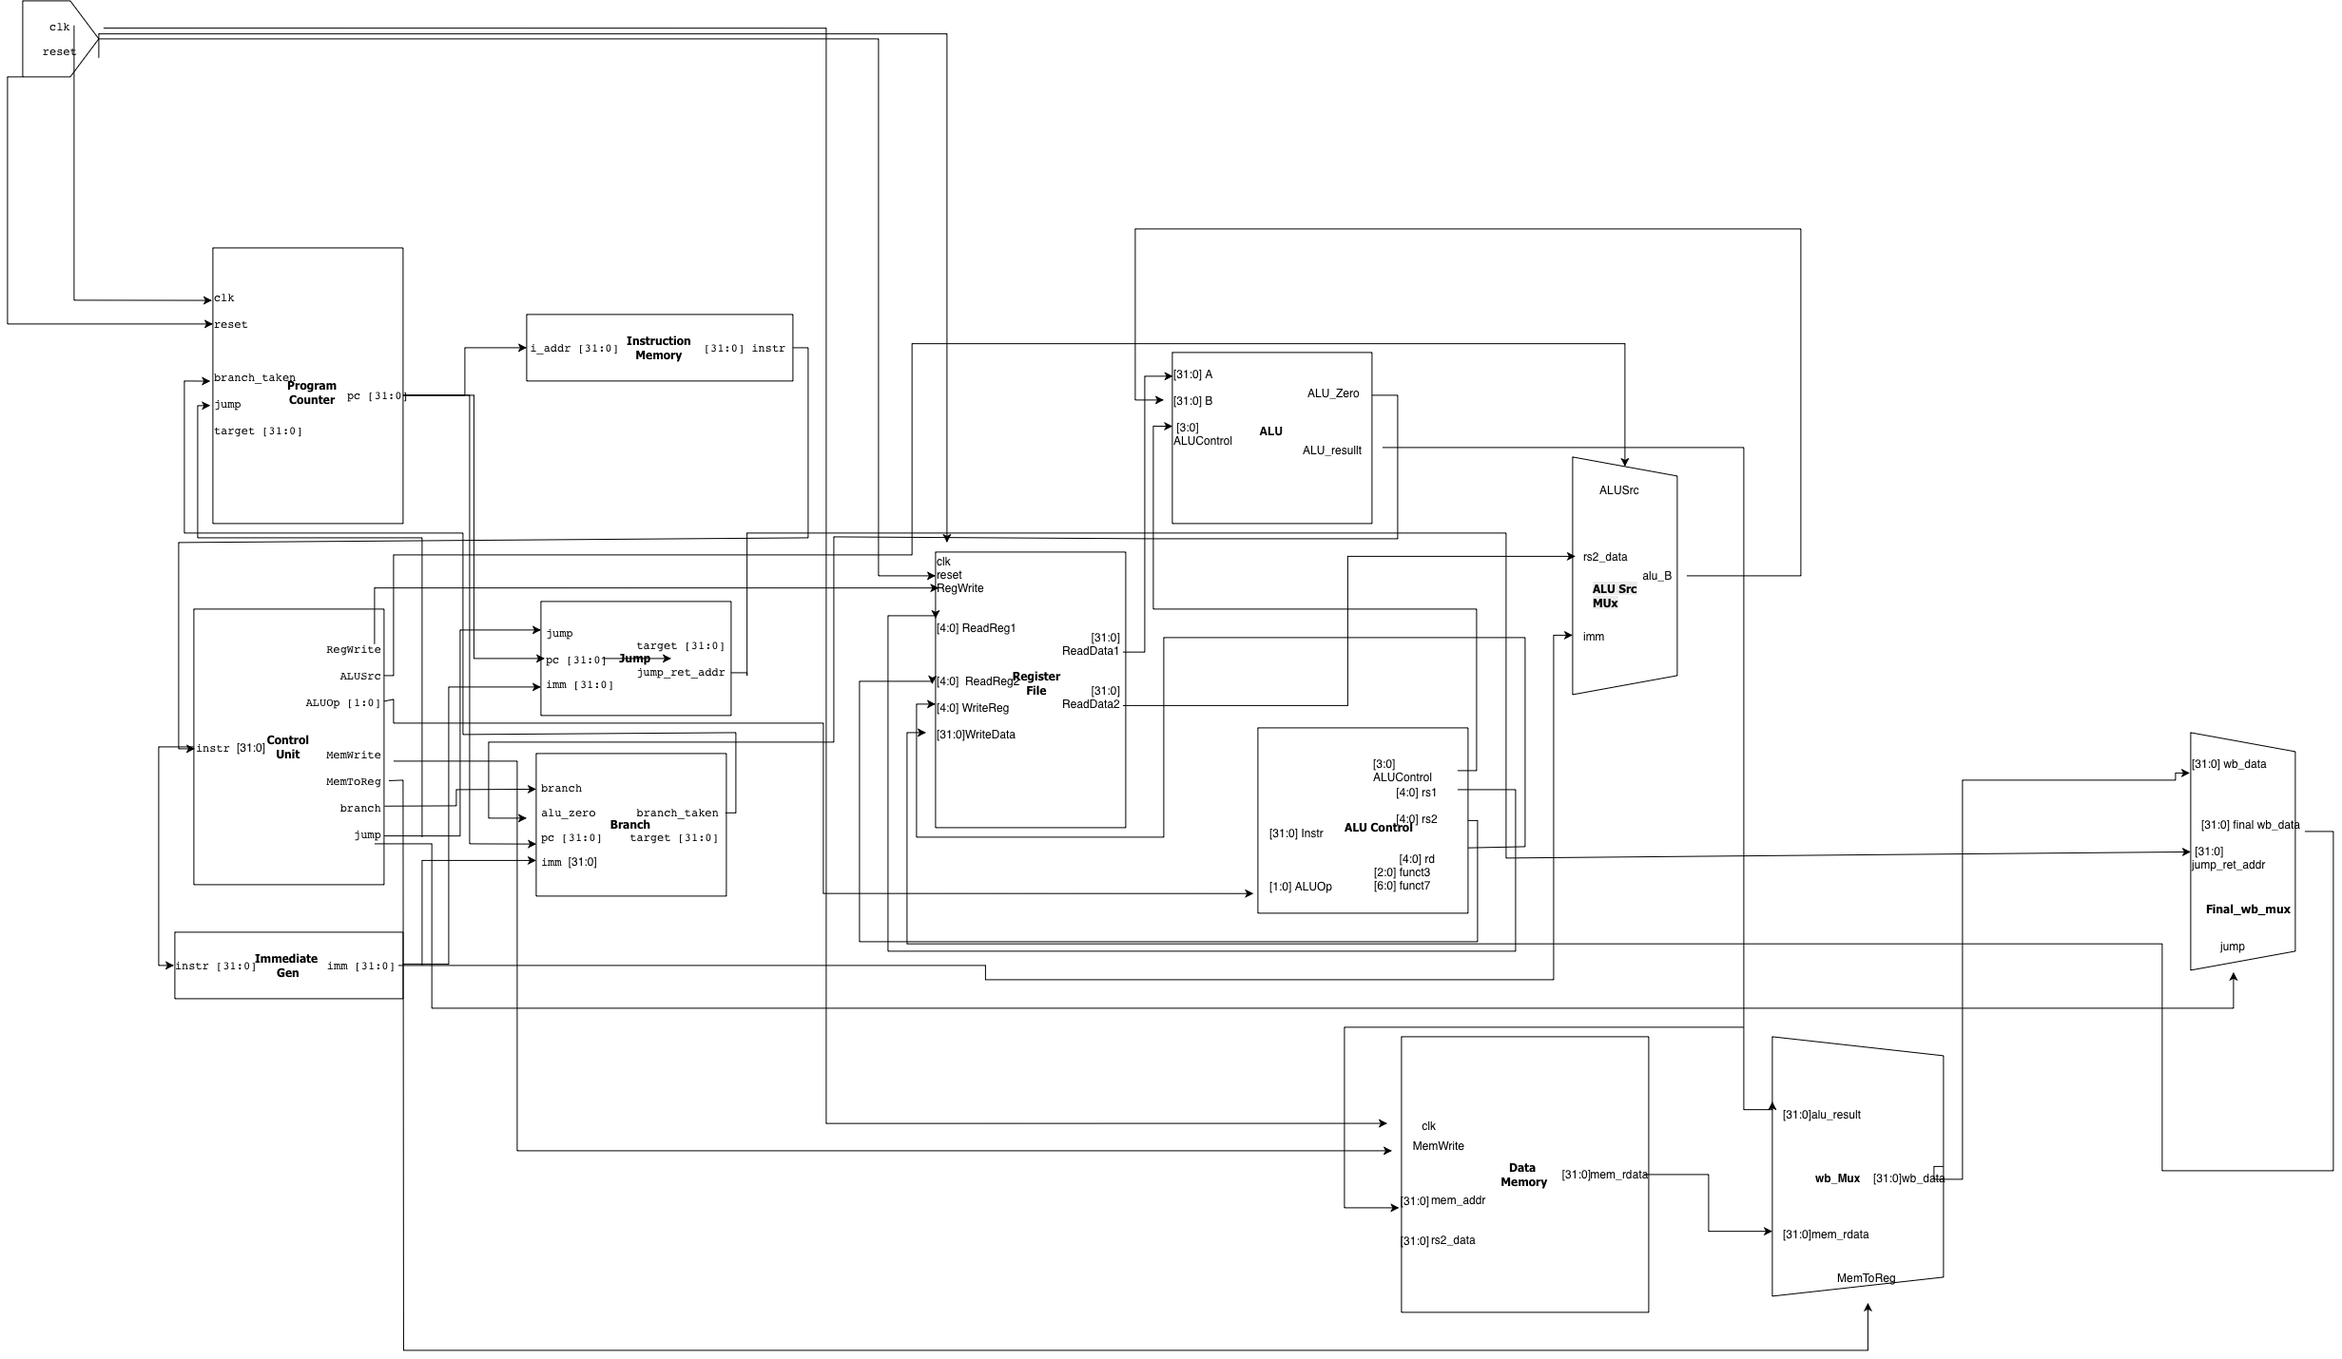
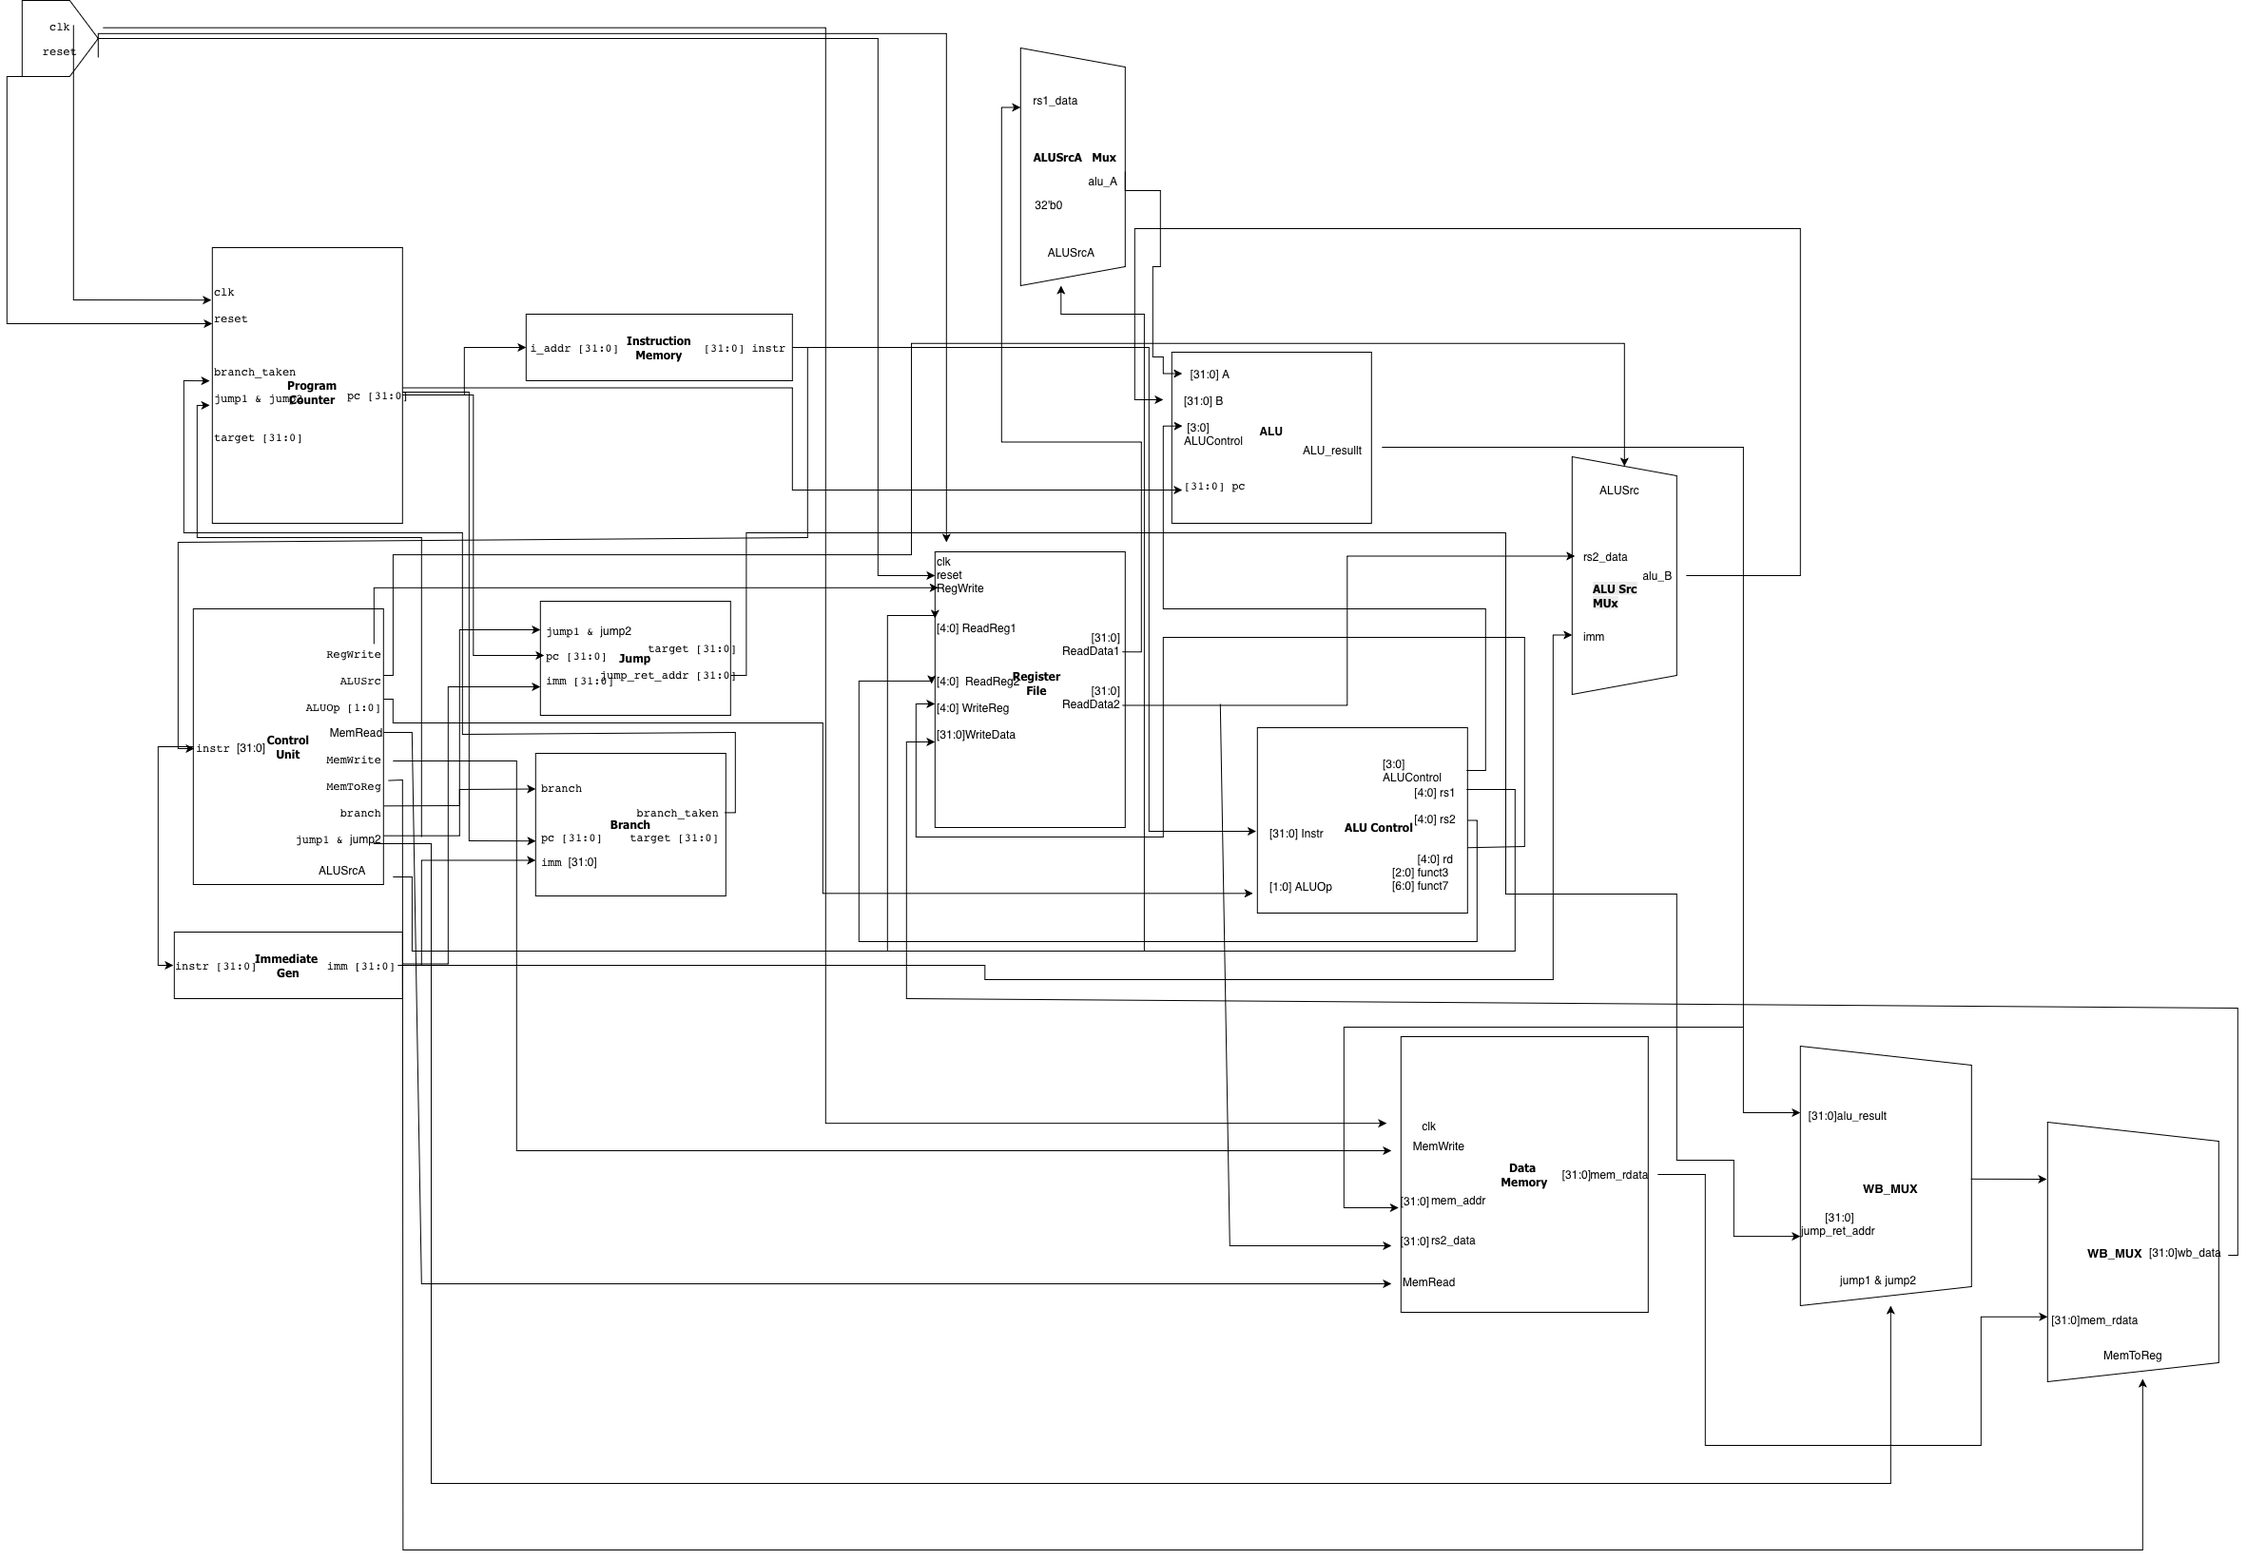
Updated README and other documentation

diff --git a/documentation/RV32I_Processor_Control_Signals.md b/documentation/RV32I_Processor_Control_Signals.md
@@ -4,45 +4,54 @@ This document summarizes the major control signals used across the RV32I single-
 
 | Signal | Width | Module(s) | Description |
 |---|---|---|---|
-| clk | 1 | Top | Global clock signal used by all sequential modules. |
-| reset | 1 | Top | Resets the processor state and Program Counter. |
-| pc | 32 | program_counter | Current Program Counter value. |
-| instr | 32 | inst_mem | 32-bit instruction fetched from instruction memory. |
-| target | 32 | branch, jump | Computed branch/jump target address. |
-| branch | 1 | control_unit | Indicates a branch instruction. |
-| branch_taken | 1 | branch | Indicates whether the branch condition is satisfied. |
-| jump | 1 | control_unit, jump | Indicates a JAL instruction. |
-| jump_ret_addr | 32 | jump | Return address (PC + 4) written to rd during JAL. |
-| rs1 | 5 | alu_control | Source register 1 index (instr[19:15]). |
-| rs2 | 5 | alu_control | Source register 2 index (instr[24:20]). |
-| rd | 5 | alu_control | Destination register index (instr[11:7]). |
-| funct3 | 3 | alu_control | Function field used for ALU operation decoding. |
-| funct7 | 7 | alu_control | Additional function field to distinguish operations. |
-| imm | 32 | immediate_gen | Sign-extended immediate value. |
+| clk | 1 | cpu_top | Global clock used by the register file, PC, and memory. |
+| reset | 1 | cpu_top | Resets the processor state and program counter. |
+| pc | 32 | program_counter, cpu_top | Current program counter value. |
+| instr | 32 | inst_mem, cpu_top | Current 32-bit instruction fetched from instruction memory. |
+| target | 32 | cpu_top | Final PC target selected between jump and branch target logic. |
+| branch | 1 | control_unit, branch_logic | Asserted for branch instructions. |
+| branch_taken | 1 | branch_logic | Indicates whether the branch condition evaluated true. |
+| branch_target | 32 | branch_logic, cpu_top | Address produced by a taken branch: `pc + imm`. |
+| jump1 | 1 | control_unit, jump_logic, writeback_mux | Asserted for JAL instructions. |
+| jump2 | 1 | control_unit, jump_logic, writeback_mux | Asserted for JALR instructions. |
+| jump | 1 | cpu_top | Derived OR of `jump1` and `jump2`; higher-priority PC control path. |
+| jump_target | 32 | jump_logic, cpu_top | Target computed for JAL/JALR. |
+| jump_ret_addr | 32 | jump_logic, writeback_mux | Return address used for the link register (PC + 4). |
+| rs1 | 5 | alu_control | Source register 1 index (`instr[19:15]`). |
+| rs2 | 5 | alu_control | Source register 2 index (`instr[24:20]`). |
+| rd | 5 | alu_control | Destination register index (`instr[11:7]`). |
+| funct3 | 3 | alu_control, branch_logic, data_memory | Function field used for ALU operation decoding and memory/branch control. |
+| funct7 | 7 | alu_control | Additional function field used to distinguish `SUB`, `SRA`, etc. |
+| imm | 32 | imm_gen, cpu_top | Immediate value generated for I/S/B/U/J formats. |
 | RegWrite | 1 | control_unit | Enables register file writeback. |
-| ALUSrc | 1 | control_unit | Selects second ALU operand (register/immediate). |
-| ALUOp | 2 | control_unit | High-level ALU operation code. |
-| ALUControl | 4 | alu_control | Exact ALU operation select (ADD, SUB, AND, OR, XOR, SLL, SRL, SRA, SLT, SLTU, etc.). |
-| alu_B | 32 | alu_src_mux | Second ALU operand after ALUSrc multiplexing. |
-| A | 32 | alu_module | First ALU operand. |
-| B | 32 | alu_module | Second ALU operand. |
-| alu_result | 32 | alu_module | Result generated by the ALU. |
-| alu_zero | 1 | alu_module | Zero flag used for branch evaluation. |
-| MemRead | 1 | control_unit | Enables Data Memory read. |
-| MemWrite | 1 | control_unit | Enables Data Memory write. |
-| mem_addr | 32 | data_memory | Address supplied to Data Memory. |
-| wb_data | 32 | data_memory | It is the final 32-bit value that is written into the Register File. |
-| mem_rdata | 32 | data_memory | Data read from Data Memory. |
-| MemToReg | 1 | writeback_mux | Selects writeback source (0 = ALU result, 1 = memory data). |
+| ALUSrc | 1 | control_unit, alu_src_mux | Selects ALU operand `B` between `rs2_data` and `imm`. |
+| ALUSrcA | 1 | control_unit, cpu_top | Selects ALU operand `A` between `rs1_data` and `pc` for AUIPC-style behavior. |
+| ALUOp | 2 | control_unit, alu_control | High-level ALU opcode: `00` add/auipc, `01` subtract/branch compare, `10` decode by funct3/funct7, `11` JAL fallback. |
+| ALUControl | 4 | alu_control, alu_module | Exact ALU operation select: `ADD`, `SUB`, `AND`, `OR`, `XOR`, `SLL`, `SRL`, `SRA`, `SLT`, `SLTU`, `AUIPC_OP`. |
+| rs1_data | 32 | reg_file, cpu_top | Data read from source register 1. |
+| rs2_data | 32 | reg_file, alu_src_mux, data_memory | Data read from source register 2; also used for stores and ALU input B. |
+| alu_A | 32 | cpu_top | Final ALU operand A after muxing. |
+| alu_B | 32 | alu_src_mux, cpu_top | Final ALU operand B after muxing. |
+| A | 32 | alu_module | First ALU operand input. |
+| B | 32 | alu_module | Second ALU operand input. |
+| ALU_result | 32 | alu_module, cpu_top | Result generated by the ALU. |
+| MemRead | 1 | control_unit, data_memory | Enables data memory read. |
+| MemWrite | 1 | control_unit, data_memory | Enables data memory write. |
+| mem_addr | 32 | data_memory, cpu_top | Address supplied to data memory. |
+| mem_rdata | 32 | data_memory, writeback_mux | Data read from data memory. |
+| MemToReg | 1 | control_unit, writeback_mux | Selects writeback source: `0` = ALU result, `1` = memory data, and JAL/JALR override to `jump_ret_addr`. |
+| wb_data | 32 | writeback_mux, reg_file | Final value written back into the register file. |
 | ReadReg1 | 5 | reg_file | Address of source register 1. |
-| ReadReg2 | 5 | reg_file | Address of source register 2 (rs2_data). |
+| ReadReg2 | 5 | reg_file | Address of source register 2. |
 | WriteReg | 5 | reg_file | Destination register address. |
-| ReadData1 | 32 | reg_file | Data read from source register 1. |
-| ReadData2 | 32 | reg_file | Data read from source register 2. |
-| WriteData | 32 | reg_file | Data written back to the register file. |
-| stall | 1 | program_counter | Freezes the Program Counter when asserted. |
+| ReadData1 | 32 | reg_file | Data read from register file operand 1. |
+| ReadData2 | 32 | reg_file | Data read from register file operand 2. |
+| WriteData | 32 | reg_file | Data sent to the destination register. |
+| stall | 1 | program_counter | PC freeze input; currently driven as `0` in the design. |
 | i_addr | 32 | inst_mem | Instruction memory address input. |
 | o_inst | 32 | inst_mem | Instruction memory output. |
-| opcode | 7 | control_unit, alu_control | Opcode field (instr[6:0]) used by the Control Unit and ALU Control to determine the instruction type. |
+| opcode | 7 | control_unit, alu_control, imm_gen | Opcode field (`instr[6:0]`) used to select instruction type and control behavior. |
+
+> The current RTL uses the signal names above as implemented in the source modules. Some older docs refer to a single `target` signal without distinguishing branch vs. jump sources; in the current design, the final PC target is selected in the top module and the branch/jump-specific targets are kept separate.
 
 > Refer the source code for the what the values of the encoding mean. 

diff --git a/README.md b/README.md
@@ -16,40 +16,45 @@ A single-cycle RISC-V RV32I CPU implemented in Verilog. The processor executes o
 
 ```
 rv32i-soc/
+├── README.md
+├── LICENSE
+├── build/                             # Generated simulation outputs
+├── documentation/
+│   ├── RV32I_Processor_Control_Signals.md
+│   ├── data_path.png
+│   └── waveform.png
 ├── hardware/
 │   ├── src/
-│   │   ├── core/
-│   │   │   ├── cpu_top.v              # Top-level CPU module
-│   │   │   ├── if/                    # Instruction Fetch stage
-│   │   │   │   ├── program_counter.v  # PC with branch/jump/stall support
-│   │   │   │   ├── inst_mem.v         # Instruction memory (reads program.hex)
-│   │   │   │   └── program.hex        # Test program in hex
-│   │   │   ├── id/                    # Instruction Decode stage
-│   │   │   │   ├── control_unit.v     # Main control decoder
-│   │   │   │   ├── immediate_gen.v    # Immediate generator (I/S/B/J-type)
-│   │   │   │   ├── branch.v           # Branch target & taken logic
-│   │   │   │   └── jump.v             # Jump target & return address logic
-│   │   │   ├── ex/                    # Execute stage
-│   │   │   │   ├── alu_control.v      # ALU operation decoder & field extractor
-│   │   │   │   ├── alu_module.v       # ALU (ADD, SUB)
-│   │   │   │   ├── alu_src_mux.v      # MUX: rs2_data vs immediate
-│   │   │   │   └── reg_file.v         # 32 × 32-bit register file
-│   │   │   └── mem/                   # Memory / Writeback stage
-│   │   │       ├── data_memory.v      # Data memory (reads data.hex)
-│   │   │       ├── mem_stage.v        # Memory stage wrapper
-│   │   │       ├── writeback_mux.v    # MUX: ALU result vs memory data
-│   │   │       └── data.hex           # Initial data memory contents
-│   │   └── include/                   # Shared headers / defines
+│   │   └── core/
+│   │       ├── cpu_top.v              # Top-level single-cycle CPU
+│   │       ├── if/
+│   │       │   ├── inst_mem.v         # Instruction memory, reads program.hex
+│   │       │   ├── program_counter.v  # PC update logic with branch/jump support
+│   │       │   └── program.hex       # Program image for the CPU testbench
+│   │       ├── id/
+│   │       │   ├── branch.v           # Branch condition and target generation
+│   │       │   ├── control_unit.v     # Opcode decode and control signals
+│   │       │   ├── immediate_gen.v    # Sign-/zero-extended immediate generation
+│   │       │   └── jump.v             # JAL / JALR target logic
+│   │       ├── ex/
+│   │       │   ├── alu_control.v      # Decodes ALU op, funct3/funct7 and register fields
+│   │       │   ├── alu_module.v       # Arithmetic / logical ALU implementation
+│   │       │   ├── alu_src_mux.v      # Selects rs2_data or immediate for ALU input B
+│   │       │   └── reg_file.v         # 32 x 32 register file
+│   │       ├── mem/
+│   │       │   ├── data.hex           # Initial data memory contents
+│   │       │   └── data_memory.v      # Memory read/write implementation
+│   │       └── wb/
+│   │           └── writeback_mux.v    # Selects ALU result, memory data, or return address
 │   └── test_bench/
-│       ├── tb_cpu_top.v               # Top-level self-checking testbench
-│       └── stage/                     # Per-stage unit testbenches
-│           ├── if/                    # IF stage testbenches
-│           ├── id/                    # ID stage testbenches
-│           ├── ex/                    # EX stage testbenches
-│           └── mem/                   # MEM stage testbenches
-├── build/                             # Simulation outputs (.vcd, executables)
-├── documentation/                     # Diagrams, waveforms, docs
-└── LICENSE
+│       ├── tb_cpu_top.v               # Top-level self-checking RTL testbench
+│       └── stage/
+│           ├── ex/
+│           ├── id/
+│           ├── if/
+│           ├── mem/
+│           └── wb/
+└──
 ```
 
 ## CPU Datapath
@@ -59,15 +64,19 @@ rv32i-soc/
 
 ## Supported Instructions
 
-The processor supports the following RV32I base integer instructions:
+The current RTL implements a RV32I-style integer core with the following instruction groups:
 
 | Type | Instructions |
 |------|-------------|
 | **R-type** | `ADD`, `SUB`, `AND`, `OR`, `XOR`, `SLL`, `SRL`, `SRA`, `SLT`, `SLTU` |
-| **I-type** | `ADDI`, `ANDI`, `ORI`, `XORI`, `SLLI`, `SRLI`, `SRAI`, `SLTI`, `SLTIU`, `LW` |
-| **S-type** | `SW` |
-| **B-type** | `BEQ`, `BNE`, `BLT`, `BGE`, `BLTU`, `BGEU` |
-| **J-type** | `JAL` |
+| **I-type ALU** | `ADDI`, `ANDI`, `ORI`, `XORI`, `SLLI`, `SRLI`, `SRAI`, `SLTI`, `SLTIU` |
+| **Load** | `LB`, `LH`, `LW`, `LBU`, `LHU` |
+| **Store** | `SB`, `SH`, `SW` |
+| **Branch** | `BEQ`, `BNE`, `BLT`, `BGE`, `BLTU`, `BGEU` |
+| **Jump / link** | `JAL`, `JALR` |
+| **U-type** | `LUI`, `AUIPC` |
+
+This matches the control decode and ALU handling implemented in `control_unit.v`, `alu_control.v`, and `jump.v`.
 
 ## Waveform Output
 
@@ -113,6 +122,8 @@ All commands are run from the repository root.
 
 ### 1. Compile
 
+From the repository root, compile the top-level testbench with the current RTL sources:
+
 ```bash
 iverilog -o build/sim_cpu_top \
   hardware/test_bench/tb_cpu_top.v \
@@ -128,9 +139,10 @@ iverilog -o build/sim_cpu_top \
   hardware/src/core/ex/alu_src_mux.v \
   hardware/src/core/ex/reg_file.v \
   hardware/src/core/mem/data_memory.v \
-  hardware/src/core/mem/mem_stage.v \
-  hardware/src/core/mem/writeback_mux.v
+  hardware/src/core/wb/writeback_mux.v
 ```
+
+> Note: the current self-checking testbench references `u_dut.final_wb_data`, but the present `cpu_top` module does not define that signal. Icarus Verilog currently fails during elaboration for that reason, so the repo is in a partially working state until the testbench or DUT is aligned.
 
 ### 2. Execute
 
@@ -138,13 +150,13 @@ iverilog -o build/sim_cpu_top \
 vvp build/sim_cpu_top
 ```
 
-A successful run prints:
+When the DUT/testbench mismatch is resolved, a successful run should print:
 
-```
+```text
 PASS: all checks passed
 ```
 
-This also generates `cpu_top.vcd` in the working directory.
+This generates `cpu_top.vcd` in the working directory when the simulation completes successfully.
 
 ### 3. View Waveform
 
